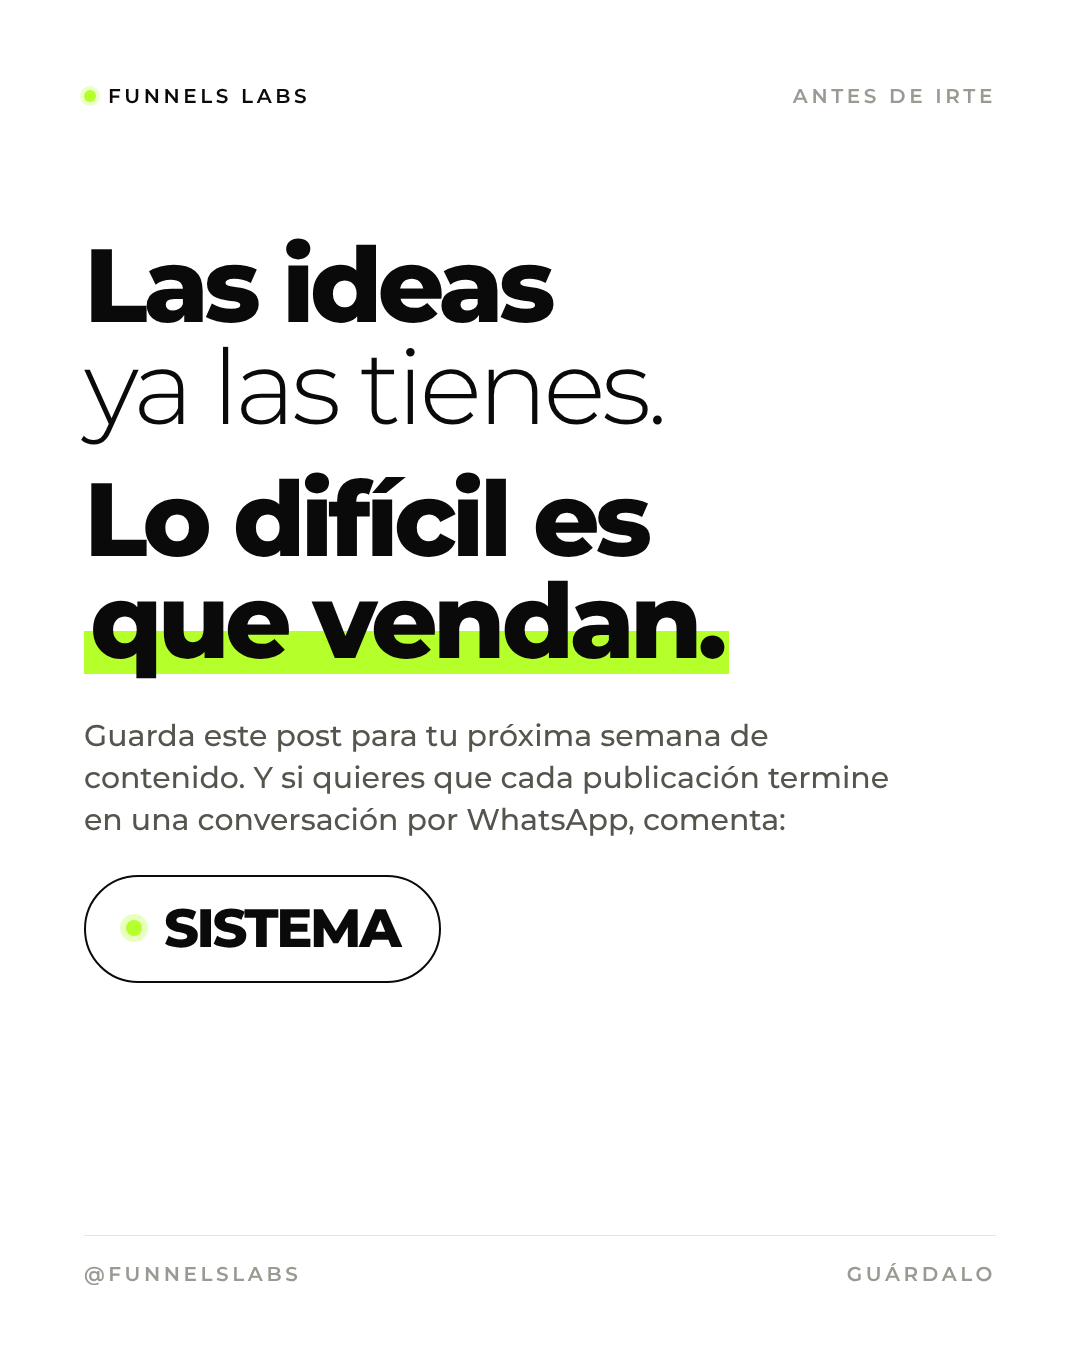
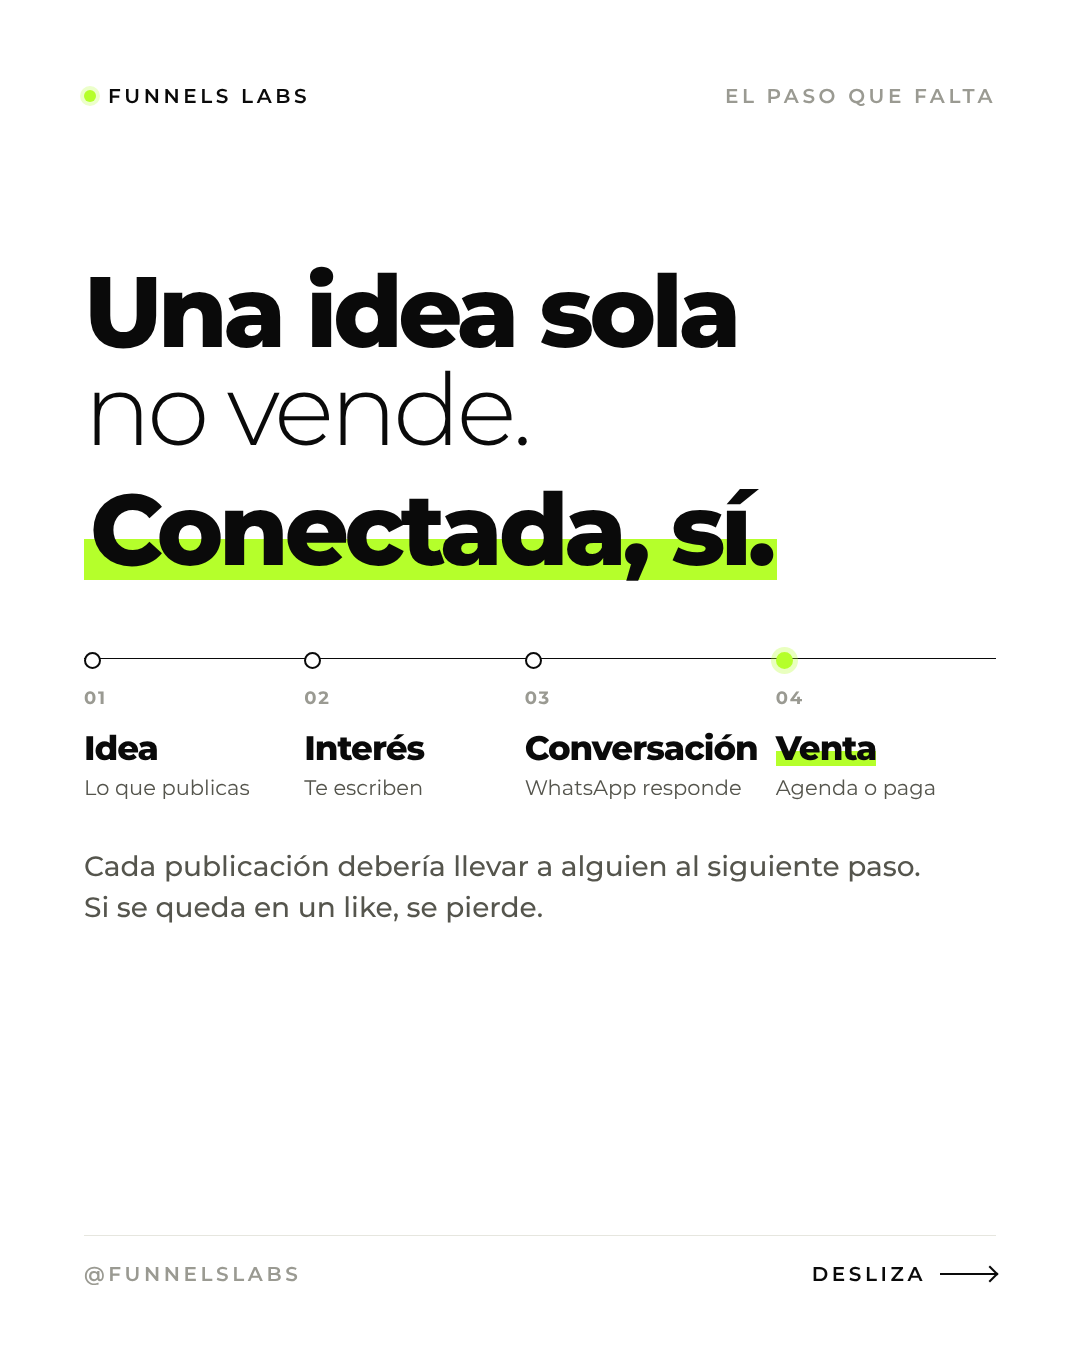
30 ideas: slide puente y CTA de sistema de ventas
Claude-Session: https://claude.ai/code/session_018d4LXHkXweDJXxfN5x99dL

Changed region(s): [[0.0611, 0.1556, 0.8556, 0.7156], [0.6722, 0.0622, 0.9167, 0.0933], [0.7639, 0.9333, 0.9167, 0.9644]]

diff --git a/carruseles/30-ideas-contenido/carrusel.html b/carruseles/30-ideas-contenido/carrusel.html
@@ -25,6 +25,15 @@ body{background:#d9d9d2;font-family:"Montserrat",Arial,sans-serif;color:var(--in
 .head p{font-size:24px;font-weight:500;color:var(--muted);margin-top:16px}
 .grid{display:grid;grid-template-columns:1fr 1fr;column-gap:56px;margin-top:8px}
 .it{display:flex;gap:18px;padding:27px 0;border-bottom:1px solid var(--line)}
+
+.flow{display:grid;grid-template-columns:repeat(4,1fr);margin-top:80px;border-top:1px solid var(--ink)}
+.flow div{position:relative;padding:28px 18px 0 0;display:flex;flex-direction:column}
+.flow small{font-size:18px;font-weight:700;letter-spacing:.1em;color:var(--faint)}
+.flow b{font-size:34px;font-weight:800;letter-spacing:-0.03em;margin-top:18px}
+.flow span{font-size:21px;color:var(--muted);margin-top:6px}
+.flow div.on b{background:linear-gradient(transparent 58%, var(--lime) 58%, var(--lime) 92%, transparent 92%);align-self:flex-start}
+.flow div::before{content:"";position:absolute;left:0;top:-7px;width:13px;height:13px;border-radius:99px;background:#fff;border:2px solid var(--ink)}
+.flow div.on::before{background:var(--lime);border-color:var(--lime);box-shadow:0 0 0 5px rgba(181,255,43,.3)}
 .it .k{flex:none;width:44px;font-size:18px;font-weight:700;letter-spacing:.06em;color:var(--faint);padding-top:5px;font-variant-numeric:tabular-nums}
 .it b{display:block;font-size:26px;font-weight:700;line-height:1.18;letter-spacing:-0.02em}
 .it span{display:block;font-size:21px;font-weight:400;line-height:1.35;color:var(--muted);margin-top:6px}
@@ -58,12 +67,28 @@ body{background:#d9d9d2;font-family:"Montserrat",Arial,sans-serif;color:var(--in
   <div class="foot"><span>@funnelslabs</span><span class="go">Desliza<span></span></span></div>
 </section>
 <section class="slide">
+  <div class="top"><div class="b"><i></i>Funnels Labs</div><div>El paso que falta</div></div>
+  <div style="margin-top:auto">
+    <div class="heavy" style="font-size:100px;line-height:.98">Una idea sola<br><span class="light">no vende.</span></div>
+    <div class="heavy" style="font-size:100px;line-height:.98;margin-top:22px"><span class="mark">Conectada, sí.</span></div>
+  </div>
+  <div class="flow">
+    <div><small>01</small><b>Idea</b><span>Lo que publicas</span></div>
+    <div><small>02</small><b>Interés</b><span>Te escriben</span></div>
+    <div><small>03</small><b>Conversación</b><span>WhatsApp responde</span></div>
+    <div class="on"><small>04</small><b>Venta</b><span>Agenda o paga</span></div>
+  </div>
+  <p style="margin-top:46px;font-size:28px;font-weight:500;line-height:1.45;color:var(--muted);max-width:860px;margin-bottom:auto">Cada publicación debería llevar a alguien al siguiente paso. Si se queda en un like, se pierde.</p>
+  <div class="foot"><span>@funnelslabs</span><span class="go">Desliza<span></span></span></div>
+</section>
+<section class="slide">
   <div class="top"><div class="b"><i></i>Funnels Labs</div><div>Antes de irte</div></div>
   <div style="margin:auto 0">
-    <div class="heavy" style="font-size:104px;line-height:.98">Las ideas<br><span class="light">ya las tienes.</span></div>
-    <div class="heavy" style="font-size:104px;line-height:.98;margin-top:30px">Lo difícil es<br><span class="mark">que vendan.</span></div>
-    <p style="margin-top:44px;font-size:30px;font-weight:500;line-height:1.4;color:var(--muted);max-width:840px">Guarda este post para tu próxima semana de contenido. Y si quieres que cada publicación termine en una conversación por WhatsApp, comenta:</p>
-    <div style="display:inline-flex;align-items:center;gap:22px;margin-top:34px;border:2px solid var(--ink);border-radius:99px;padding:18px 40px 20px">
+    <div class="heavy" style="font-size:88px;line-height:1">¿Quieres conectar<br>estas ideas con un</div>
+    <div class="heavy" style="font-size:88px;line-height:1;margin-top:14px"><span class="mark">sistema de ventas</span></div>
+    <div style="font-size:88px;line-height:1;margin-top:14px" class="light">diseñado para<br>tu negocio?</div>
+    <p style="margin-top:50px;font-size:30px;font-weight:500;color:var(--muted)">Comenta y te mostramos cómo se vería:</p>
+    <div style="display:inline-flex;align-items:center;gap:22px;margin-top:26px;border:2px solid var(--ink);border-radius:99px;padding:18px 40px 20px">
       <span style="width:16px;height:16px;border-radius:99px;background:var(--lime);box-shadow:0 0 0 6px rgba(181,255,43,.3)"></span>
       <span class="heavy" style="font-size:54px">SISTEMA</span></div>
   </div>

diff --git a/carruseles/30-ideas-contenido/generar.py b/carruseles/30-ideas-contenido/generar.py
@@ -55,6 +55,15 @@ body{background:#d9d9d2;font-family:"Montserrat",Arial,sans-serif;color:var(--in
 .head p{font-size:24px;font-weight:500;color:var(--muted);margin-top:16px}
 .grid{display:grid;grid-template-columns:1fr 1fr;column-gap:56px;margin-top:8px}
 .it{display:flex;gap:18px;padding:27px 0;border-bottom:1px solid var(--line)}
+
+.flow{display:grid;grid-template-columns:repeat(4,1fr);margin-top:80px;border-top:1px solid var(--ink)}
+.flow div{position:relative;padding:28px 18px 0 0;display:flex;flex-direction:column}
+.flow small{font-size:18px;font-weight:700;letter-spacing:.1em;color:var(--faint)}
+.flow b{font-size:34px;font-weight:800;letter-spacing:-0.03em;margin-top:18px}
+.flow span{font-size:21px;color:var(--muted);margin-top:6px}
+.flow div.on b{background:linear-gradient(transparent 58%, var(--lime) 58%, var(--lime) 92%, transparent 92%);align-self:flex-start}
+.flow div::before{content:"";position:absolute;left:0;top:-7px;width:13px;height:13px;border-radius:99px;background:#fff;border:2px solid var(--ink)}
+.flow div.on::before{background:var(--lime);border-color:var(--lime);box-shadow:0 0 0 5px rgba(181,255,43,.3)}
 .it .k{flex:none;width:44px;font-size:18px;font-weight:700;letter-spacing:.06em;color:var(--faint);padding-top:5px;font-variant-numeric:tabular-nums}
 .it b{display:block;font-size:26px;font-weight:700;line-height:1.18;letter-spacing:-0.02em}
 .it span{display:block;font-size:21px;font-weight:400;line-height:1.35;color:var(--muted);margin-top:6px}
@@ -81,13 +90,29 @@ cover='''<section class="slide">
   </div>
   <div class="foot"><span>@funnelslabs</span><span class="go">Desliza<span></span></span></div>
 </section>'''
+bridge='''<section class="slide">
+  <div class="top"><div class="b"><i></i>Funnels Labs</div><div>El paso que falta</div></div>
+  <div style="margin-top:auto">
+    <div class="heavy" style="font-size:100px;line-height:.98">Una idea sola<br><span class="light">no vende.</span></div>
+    <div class="heavy" style="font-size:100px;line-height:.98;margin-top:22px"><span class="mark">Conectada, sí.</span></div>
+  </div>
+  <div class="flow">
+    <div><small>01</small><b>Idea</b><span>Lo que publicas</span></div>
+    <div><small>02</small><b>Interés</b><span>Te escriben</span></div>
+    <div><small>03</small><b>Conversación</b><span>WhatsApp responde</span></div>
+    <div class="on"><small>04</small><b>Venta</b><span>Agenda o paga</span></div>
+  </div>
+  <p style="margin-top:46px;font-size:28px;font-weight:500;line-height:1.45;color:var(--muted);max-width:860px;margin-bottom:auto">Cada publicación debería llevar a alguien al siguiente paso. Si se queda en un like, se pierde.</p>
+  <div class="foot"><span>@funnelslabs</span><span class="go">Desliza<span></span></span></div>
+</section>'''
 cta='''<section class="slide">
   <div class="top"><div class="b"><i></i>Funnels Labs</div><div>Antes de irte</div></div>
   <div style="margin:auto 0">
-    <div class="heavy" style="font-size:104px;line-height:.98">Las ideas<br><span class="light">ya las tienes.</span></div>
-    <div class="heavy" style="font-size:104px;line-height:.98;margin-top:30px">Lo difícil es<br><span class="mark">que vendan.</span></div>
-    <p style="margin-top:44px;font-size:30px;font-weight:500;line-height:1.4;color:var(--muted);max-width:840px">Guarda este post para tu próxima semana de contenido. Y si quieres que cada publicación termine en una conversación por WhatsApp, comenta:</p>
-    <div style="display:inline-flex;align-items:center;gap:22px;margin-top:34px;border:2px solid var(--ink);border-radius:99px;padding:18px 40px 20px">
+    <div class="heavy" style="font-size:88px;line-height:1">¿Quieres conectar<br>estas ideas con un</div>
+    <div class="heavy" style="font-size:88px;line-height:1;margin-top:14px"><span class="mark">sistema de ventas</span></div>
+    <div style="font-size:88px;line-height:1;margin-top:14px" class="light">diseñado para<br>tu negocio?</div>
+    <p style="margin-top:50px;font-size:30px;font-weight:500;color:var(--muted)">Comenta y te mostramos cómo se vería:</p>
+    <div style="display:inline-flex;align-items:center;gap:22px;margin-top:26px;border:2px solid var(--ink);border-radius:99px;padding:18px 40px 20px">
       <span style="width:16px;height:16px;border-radius:99px;background:var(--lime);box-shadow:0 0 0 6px rgba(181,255,43,.3)"></span>
       <span class="heavy" style="font-size:54px">SISTEMA</span></div>
   </div>
@@ -99,6 +124,7 @@ html=f'''<!doctype html><html lang="es"><head><meta charset="utf-8"><title>30 id
 <style>{css}</style></head><body>
 {cover}
 {''.join(niche(i+1,n) for i,n in enumerate(N))}
+{bridge}
 {cta}
 </body></html>'''
 open(__import__('os').path.join(__import__('os').path.dirname(__file__),'carrusel.html'),'w').write(html)

diff --git a/carruseles/30-ideas-contenido/caption.md b/carruseles/30-ideas-contenido/caption.md
@@ -1,5 +1,5 @@
 30 ideas para que no vuelvas a quedarte en blanco.
 
-Guárdalo y comenta “SISTEMA” si quieres que tu contenido también venda.
+Guárdalo y comenta “SISTEMA” si quieres conectarlas con un sistema de ventas para tu negocio.
 
 #emprendedoreslatam #funnelslabs
